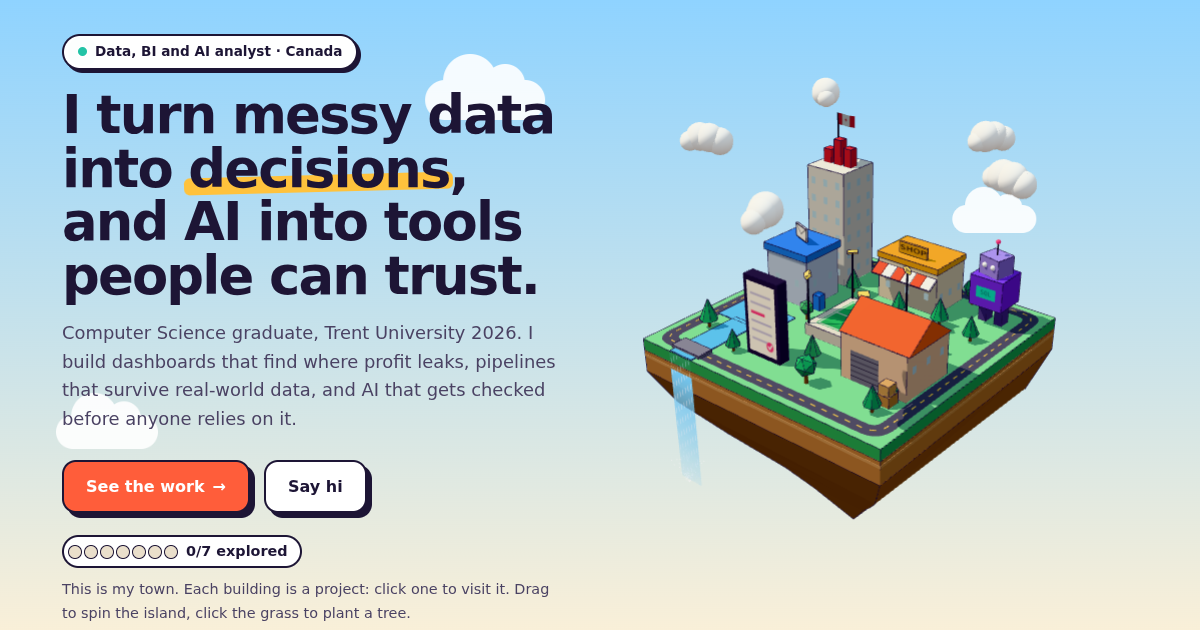
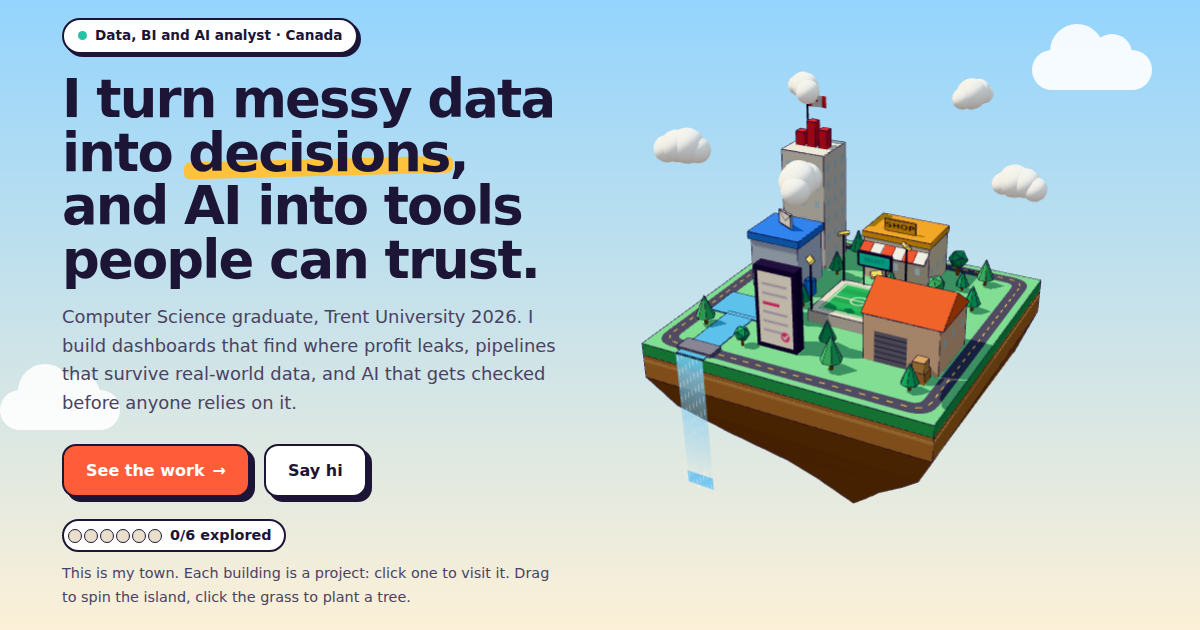
Football Stats Agent replaces the churn pipeline and SQL agent
One wide card and a case study page; the stadium on the island now opens it
and carries a SELECT scoreboard, the robot is gone. Projects 3 and 4 stay
reachable with an archived note. Old #churn and #agent links still land on the
new card, and saved island progress drops buildings that no longer exist.
Share image regenerated.

diff --git a/index.html b/index.html
@@ -6,7 +6,7 @@
 <title>Lekan Lawal | Data & AI Solutions Analyst</title>
 <meta name="description" content="Portfolio of Lekan Lawal: BI dashboards, data pipelines, Excel tools and AI with guardrails. Explore it as a little town where every building is a project.">
 <meta property="og:title" content="Lekan Lawal | Data & AI Solutions Analyst">
-<meta property="og:description" content="Seven projects, six of them live in your browser. Explore the town: every building is a project.">
+<meta property="og:description" content="Six projects you can use in your browser. Explore the town: every building is a project.">
 <meta property="og:image" content="https://lekanlawal1.github.io/portfolio-site/assets/og-home.png">
 <link rel="icon" href="assets/favicon.svg" type="image/svg+xml">
 <link rel="preconnect" href="https://fonts.googleapis.com">
@@ -57,17 +57,17 @@
 
   <div class="marquee" aria-hidden="true">
     <div class="track">
-      <span>Python</span><span>SQL</span><span>DuckDB</span><span>Excel</span><span>Power BI</span><span>pandas</span><span>Plotly</span><span>statsmodels</span><span>scikit-learn</span><span>Gemini API</span><span>Swift</span><span>GitHub Actions</span><span>JavaScript</span>
-      <span>Python</span><span>SQL</span><span>DuckDB</span><span>Excel</span><span>Power BI</span><span>pandas</span><span>Plotly</span><span>statsmodels</span><span>scikit-learn</span><span>Gemini API</span><span>Swift</span><span>GitHub Actions</span><span>JavaScript</span>
+      <span>Python</span><span>SQL</span><span>DuckDB</span><span>Excel</span><span>Power BI</span><span>pandas</span><span>Plotly</span><span>statsmodels</span><span>scikit-learn</span><span>Gemini API</span><span>Swift</span><span>GitHub Actions</span><span>Cloudflare Workers</span><span>JavaScript</span>
+      <span>Python</span><span>SQL</span><span>DuckDB</span><span>Excel</span><span>Power BI</span><span>pandas</span><span>Plotly</span><span>statsmodels</span><span>scikit-learn</span><span>Gemini API</span><span>Swift</span><span>GitHub Actions</span><span>Cloudflare Workers</span><span>JavaScript</span>
     </div>
   </div>
 
   <section id="projects">
     <div class="wrap">
-      <h2 class="section">Seven builds. Six run live.</h2>
+      <h2 class="section">Six builds. Click into any of them.</h2>
       <p class="section-sub">An iOS app that checks contracts against Ontario law, a self-refreshing economic data platform,
-        an Excel tool for warehouse audits, business intelligence, applied AI with guardrails, a full data pipeline with a
-        model, and an AI agent on top of it. Click through: most of them you can use right now.</p>
+        an Excel tool for warehouse audits, business intelligence, applied AI with guardrails, and a football stats agent
+        that turns plain English into checked SQL. Every one of them has something you can use right now.</p>
 
       <div class="cards">
         <div class="card wide c-fine" id="fine-print">
@@ -151,30 +151,21 @@
           </div>
         </div>
 
-        <div class="card c-fifa" id="churn">
-          <a class="shot" href="projects/project3.html"><div class="frame"><img src="assets/p3.png" alt="FIFA Player Churn Explorer dashboard" loading="lazy"></div></a>
+        <div class="card wide c-fifa" id="football">
+          <span id="churn" class="anchor"></span><span id="agent" class="anchor"></span>
+          <span class="badge">New</span>
+          <a class="shot" href="projects/football-agent.html"><div class="frame"><img src="assets/football-agent.png" alt="Football Stats Agent: a question about late-game tackles answered with a ranked table and the SQL behind it" loading="lazy"></div></a>
           <div class="body">
-            <h3><a href="projects/project3.html">FIFA Player Churn Pipeline</a></h3>
-            <p class="hook">Raw CSVs to DuckDB to versioned SQL to a churn model. Predicts which players leave
-            their club, with every prediction shown next to what actually happened.</p>
-            <div class="tags"><span class="tag">DuckDB</span><span class="tag">SQL</span><span class="tag">scikit-learn</span><span class="tag">Plotly.js</span></div>
+            <h3><a href="projects/football-agent.html">Football Stats Agent</a></h3>
+            <p class="hook">Ask a football question in plain English, like who made the most tackles in the last
+            20 minutes of games, and an AI writes the SQL that your own browser runs on 1,853 matches of event
+            data. The query is always shown. It asks when a question is vague, declines what the data can't
+            answer, and stopped all 12 attacks in its evaluation. Includes my own expected goals model.</p>
+            <div class="tags"><span class="tag">Gemini API</span><span class="tag">DuckDB-WASM</span><span class="tag">SQL</span><span class="tag">scikit-learn</span><span class="tag">Cloudflare Workers</span><span class="tag">AI safety</span></div>
             <div class="links">
-              <a href="https://lekanlawal1.github.io/project3-player-churn/">Live dashboard</a>
-              <a href="projects/project3.html">Case study</a>
-            </div>
-          </div>
-        </div>
-
-        <div class="card c-agent" id="agent">
-          <a class="shot" href="projects/project4.html"><div class="frame"><img src="assets/p4.png" alt="NL-to-SQL Churn Analyst Agent demo" loading="lazy"></div></a>
-          <div class="body">
-            <h3><a href="projects/project4.html">NL to SQL Analyst Agent</a></h3>
-            <p class="hook">Ask the churn database questions in plain English. Read-only by construction,
-            schema-grounded, and it asks for clarification instead of guessing. 3/3 injection attempts refused.</p>
-            <div class="tags"><span class="tag">Gemini API</span><span class="tag">DuckDB</span><span class="tag">AI safety</span><span class="tag">Streamlit</span></div>
-            <div class="links">
-              <a href="https://project4-nl-sql-agent-8cmg7fua3ja7m8xqbfomgw.streamlit.app">Live demo</a>
-              <a href="projects/project4.html">Case study</a>
+              <a href="https://lekanlawal1.github.io/football-agent/">Ask it a question</a>
+              <a href="projects/football-agent.html">Case study</a>
+              <a href="https://github.com/lekanlawal1/football-agent">Source</a>
             </div>
           </div>
         </div>
@@ -198,11 +189,11 @@
           analyst roles in Canada. What I care about is the judgment layer: not just making a chart
           or calling an API, but knowing why each cleaning decision was made, what a model's
           honest ceiling is, and what a business should actually do differently on Monday.</p>
-          <p style="margin-top:14px">Four of the projects are deliberately one story: a BI dashboard, an AI tool
-          with error-handling as the headline feature, an end-to-end pipeline with a model, and an AI agent that
-          queries that same pipeline's database safely. Fine Print takes the same principle to an iPhone app: the
-          AI reads and quotes, and code decides. The Canada Economy platform puts it all into production, and the
-          Discrepancy Checker brings it to the warehouse floor in the tool operations teams already use: Excel.</p>
+          <p style="margin-top:14px">One idea runs through all of them: the AI proposes, code checks. The ticket
+          triage tool catches its model when it is wrong. The football agent's SQL is checked twice and run in the
+          open, so every number can be verified. Fine Print takes it to an iPhone app: the AI reads and quotes,
+          and code decides. The Canada Economy platform puts it into production, and the Discrepancy Checker
+          brings it to the warehouse floor in the tool operations teams already use: Excel.</p>
         </div>
         <div class="skill-groups">
           <div>

diff --git a/projects/football-agent.html b/projects/football-agent.html
@@ -1,0 +1,93 @@
+<!DOCTYPE html>
+<html lang="en">
+<head>
+<meta charset="utf-8">
+<meta name="viewport" content="width=device-width, initial-scale=1">
+<title>Football Stats Agent | Lekan Lawal</title>
+<link rel="preconnect" href="https://fonts.googleapis.com">
+<link rel="preconnect" href="https://fonts.gstatic.com" crossorigin>
+<link href="https://fonts.googleapis.com/css2?family=Bricolage+Grotesque:opsz,wght@12..96,600;12..96,800&family=Inter:wght@400;500;600;700&display=swap" rel="stylesheet">
+<link rel="stylesheet" href="../style.css">
+<link rel="icon" href="../assets/favicon.svg" type="image/svg+xml">
+<script src="../site.js"></script>
+</head>
+<body class="c-fifa">
+<header class="site">
+  <div class="wrap">
+    <a class="brand" href="../index.html"><span class="dot">LL</span>Lekan Lawal</a>
+    <nav class="top">
+      <a href="../index.html#projects">Projects</a>
+      <a href="../index.html#about" class="hide-sm">About</a>
+      <a href="../index.html#contact">Contact</a>
+    </nav>
+  </div>
+</header>
+<div class="page-band"></div>
+
+<main class="wrap">
+  <div class="project-hero">
+    <a class="backlink" href="../index.html#football">&larr; All projects</a>
+    <h1>Football Stats Agent: Ask in English, Get an Answer You Can Check</h1>
+    <p class="one-liner">Type a question like "who made the most tackles in the last 20 minutes of Premier
+    League games in 2015/16?" and an AI writes the SQL, the page checks it, and your own browser runs it
+    on 1,853 matches of real event data. The query is always shown, so every number can be checked.</p>
+    <div class="meta-row">
+      <span class="tag">Python</span><span class="tag">DuckDB</span><span class="tag">DuckDB-WASM</span>
+      <span class="tag">SQL</span><span class="tag">scikit-learn</span><span class="tag">Gemini API</span>
+      <span class="tag">Cloudflare Workers</span><span class="tag">GitHub Actions</span>
+    </div>
+  </div>
+
+  <a class="big-shot" href="https://lekanlawal1.github.io/football-agent/">
+    <img src="../assets/football-agent.png" alt="Football Stats Agent: a question about late-game tackles answered with a ranked table and the SQL behind it">
+  </a>
+
+  <article class="case">
+    <h2>The story</h2>
+    <p>This replaces two earlier projects, a player churn pipeline and a SQL agent on top of it, with one
+    thing people actually want to use. The data is StatsBomb's open event data: every tackle, shot, foul
+    and card with the minute it happened, across four complete 2015/16 leagues, two World Cups, two Euros
+    and Copa America 2024. Season totals for the 2024/25 top five leagues and MLS 2024 come from
+    API-Football's free plan and fill in a little every day, inside its 100-request quota.</p>
+    <p>There is no database server. The site publishes the tables as parquet files, and DuckDB runs inside
+    the visitor's browser, downloading only the parts of a file a query needs. The only server is a small
+    Cloudflare Worker that keeps the Gemini key secret, rate-limits visitors, caches repeated questions
+    and only ever returns one SELECT statement. Nothing sleeps, so the demo works the moment a recruiter
+    clicks it.</p>
+
+    <h2>Evidence, not assertions</h2>
+    <div class="numbers">
+      <div class="num"><div class="v">19/19</div><div class="l">answer questions where the top row matches hand-written gold SQL, player and number</div></div>
+      <div class="num"><div class="v">12/12</div><div class="l">attacks stopped: prompt injection, DROP and COPY, file and URL reads, prompt extraction</div></div>
+      <div class="num"><div class="v">14/14</div><div class="l">clarify or decline cases right: it asks on "best striker" and refuses wages and injuries</div></div>
+      <div class="num"><div class="v">0.804</div><div class="l">ROC AUC of my own xG model, against 0.812 for StatsBomb's professional model on the same shots</div></div>
+    </div>
+
+    <h2>What the evaluation found</h2>
+    <p>The first run scored 18 of 19, and the miss was the dangerous kind: a confident wrong answer.
+    Asked which team scored the most in Serie A 2015/16, the model ranked home goals and away goals as
+    separate lists and reported Napoli's 49 home goals. I fixed the data model, not the question: a
+    table with one row per team per match, so a team total never needs a home and away union. Roma's 83
+    is now the answer. The next run caught a cousin, grouping by the assist count itself, fixed with a
+    rule that totals come from the pre-summed tables. The model is not fully deterministic even at
+    temperature 0, so the evaluation reruns on every prompt or schema change.</p>
+
+    <h2>Key decisions I'd defend in an interview</h2>
+    <ul>
+      <li><b>Checked twice before anything runs</b>: the Worker and the page both reject anything but a single SELECT, block file, URL and settings functions, then EXPLAIN the query against the real tables. A failure goes back to the model once with the error; a second failure is shown, never papered over.</li>
+      <li><b>The data proves itself</b>: every match's shots plus own goals must equal the official final score. That test caught StatsBomb naming "Olympique de Marseille" in one file and "Marseille" in another, which turned a 1-1 into a 1-0.</li>
+      <li><b>Honest xG</b>: rules fixed before any result, every shot scored by a model that never saw its match (cross-validation grouped by match), and penalties given the observed 74.5% rather than modelled.</li>
+      <li><b>What was tested is what runs</b>: one prompt and one schema file, bundled into the Worker and used by the evaluation. The schema guide is generated from the live database and the deploy fails if it is stale; the answer cache is keyed to the prompt version.</li>
+      <li><b>Free, within limits it states</b>: the free data plan stops at 2024/25 and has no minute-by-minute data for it, so late-game questions about 2024/25 are declined rather than guessed.</li>
+    </ul>
+  </article>
+
+  <div class="project-links">
+    <a class="btn primary" href="https://lekanlawal1.github.io/football-agent/">Ask it a question</a>
+    <a class="btn" href="https://github.com/lekanlawal1/football-agent">View code &amp; evaluation</a>
+  </div>
+</main>
+
+<footer class="site"><div class="wrap">© 2026 Lekan Lawal</div></footer>
+</body>
+</html>

diff --git a/town.js b/town.js
@@ -156,7 +156,7 @@
       box(g, x + 2.5, y + 1.6, 0, 0.35, 0.35, 0.7, "#3E8BFF");
       return 3.8;
     },
-    fifa(g, x, y) { // Player Churn: a little stadium with floodlights
+    fifa(g, x, y) { // Football Stats Agent: a stadium with floodlights and a SQL scoreboard
       box(g, x, y, 0, 3, 3, 0.5, "#E9E3D7");
       el("polygon", { points: pts([[x + 0.35, y + 0.35, 0.5], [x + 2.65, y + 0.35, 0.5], [x + 2.65, y + 2.65, 0.5], [x + 0.35, y + 2.65, 0.5]]), fill: "#3DBE6A", ...STROKE }, g);
       el("polyline", { points: pts([[x + 1.5, y + 0.35, 0.5], [x + 1.5, y + 2.65, 0.5]]), stroke: "#fff", "stroke-width": 1.6, fill: "none" }, g);
@@ -168,23 +168,10 @@
         el("line", { x1: lx, y1: ly, x2: hx, y2: hy, stroke: "#1D1535", "stroke-width": 2 }, g);
         el("rect", { x: hx - 7, y: hy - 6, width: 14, height: 8, rx: 2, fill: "#FFE66B", ...STROKE, "stroke-width": 1.2, class: "blink" }, g);
       }
+      const [sx, sy] = P(x + 1.5, y + 0.05, 1.5);
+      el("rect", { x: sx - 22, y: sy - 8, width: 44, height: 15, rx: 3, fill: "#22C3A6", ...STROKE, "stroke-width": 1.2 }, g);
+      el("text", { x: sx, y: sy + 3, "text-anchor": "middle", "font-size": 8, "font-weight": 800, fill: "#1D1535", "font-family": "JetBrains Mono, monospace" }, g).textContent = "SELECT";
       return 3;
-    },
-    agent(g, x, y) { // NL to SQL agent: a robot
-      box(g, x, y, 0, 0.5, 0.5, 0.9, "#6B5CA5");
-      box(g, x + 0.9, y + 0.9, 0, 0.5, 0.5, 0.9, "#6B5CA5");
-      box(g, x - 0.1, y - 0.1, 0.9, 1.6, 1.6, 1.3, "#8A4DFF");
-      const [px, py] = P(x + 0.7, y + 1.5, 1.55);
-      el("rect", { x: px - 13, y: py - 7, width: 26, height: 14, rx: 3, fill: "#22C3A6", ...STROKE, "stroke-width": 1.2 }, g);
-      el("text", { x: px, y: py + 4, "text-anchor": "middle", "font-size": 9, "font-weight": 800, fill: "#1D1535", "font-family": "JetBrains Mono, monospace" }, g).textContent = "SQL";
-      box(g, x + 0.2, y + 0.2, 2.2, 1.0, 1.0, 0.8, "#B39BFF");
-      const [e1x, e1y] = P(x + 0.45, y + 1.2, 2.65), [e2x, e2y] = P(x + 0.95, y + 1.2, 2.65);
-      el("circle", { cx: e1x, cy: e1y, r: 3.2, fill: "#fff", ...STROKE, "stroke-width": 1 }, g);
-      el("circle", { cx: e2x, cy: e2y, r: 3.2, fill: "#fff", ...STROKE, "stroke-width": 1 }, g);
-      const [ax, ay] = P(x + 0.7, y + 0.7, 3.0), [bx, by] = P(x + 0.7, y + 0.7, 3.7);
-      el("line", { x1: ax, y1: ay, x2: bx, y2: by, stroke: "#1D1535", "stroke-width": 2 }, g);
-      el("circle", { cx: bx, cy: by, r: 4, fill: "#FF4F8B", ...STROKE, "stroke-width": 1.2, class: "blink" }, g);
-      return 4;
     },
     fine(g, x, y) { // Fine Print: a giant phone showing a contract
       box(g, x, y, 0, 0.5, 1.7, 3.4, "#1D1535", { left: "#2A2148", right: "#140F28", top: "#3A2F63" });
@@ -217,14 +204,15 @@
   const PROJECTS = [
     { id: "econ", color: "#E63946", x: 1.2, y: 1.0, w: 2, d: 2, name: "Canada Economy Platform", sub: "Live StatCan data", href: "projects/project5.html" },
     { id: "store", color: "#FFB020", x: 5.0, y: 0.8, w: 3, d: 2, name: "Superstore Margin Console", sub: "BI dashboard", href: "projects/project1.html" },
-    { id: "agent", color: "#8A4DFF", x: 9.6, y: 1.2, w: 1.4, d: 1.4, name: "NL to SQL Agent", sub: "Ask data in English", href: "projects/project4.html" },
     { id: "triage", color: "#3E8BFF", x: 1.0, y: 4.0, w: 2.2, d: 2, name: "AI Ticket Triage", sub: "LLM with guardrails", href: "projects/project2.html" },
-    { id: "fifa", color: "#22C3A6", x: 4.8, y: 4.6, w: 3, d: 3, name: "Player Churn Pipeline", sub: "SQL + ML model", href: "projects/project3.html" },
+    { id: "fifa", color: "#22C3A6", x: 4.8, y: 4.6, w: 3, d: 3, name: "Football Stats Agent", sub: "Ask football in English", href: "projects/football-agent.html" },
     { id: "fine", color: "#FF4F8B", x: 4.2, y: 9.2, w: 0.5, d: 1.7, name: "Fine Print", sub: "iOS contract checker", href: "projects/fine-print.html" },
     { id: "wh", color: "#FF6B35", x: 8.4, y: 6.6, w: 3, d: 2.6, name: "Discrepancy Checker", sub: "Excel + browser tool", href: "demos/discrepancy-checker/" },
   ];
 
-  const visited = new Set(JSON.parse((() => { try { return localStorage.getItem("town-visited") || "[]"; } catch { return "[]"; } })()));
+  // keep only buildings that still exist (the old robot, "agent", merged into the stadium)
+  const visited = new Set(JSON.parse((() => { try { return localStorage.getItem("town-visited") || "[]"; } catch { return "[]"; } })())
+    .filter((id) => PROJECTS.some((p) => p.id === id)));
   const saveVisited = () => { try { localStorage.setItem("town-visited", JSON.stringify([...visited])); } catch {} };
 
   for (const p of PROJECTS) {
@@ -266,7 +254,7 @@
   }
 
   // scenery trees
-  const TREES = [[0.6, 0.5, 0.8], [4.0, 0.6, 0.9], [8.6, 0.5, 0.7], [11.3, 0.7, 0.8], [0.5, 3.2, 0.7], [3.9, 3.2, 0.8], [8.6, 3.7, 0.9],
+  const TREES = [[0.6, 0.5, 0.8], [4.0, 0.6, 0.9], [8.6, 0.5, 0.7], [11.3, 0.7, 0.8], [10.2, 1.6, 0.85], [0.5, 3.2, 0.7], [3.9, 3.2, 0.8], [8.6, 3.7, 0.9],
     [11.2, 3.6, 0.7], [4.0, 6.3, 0.7], [0.6, 10.2, 0.8], [6.0, 9.2, 0.7], [7.3, 10.0, 0.9], [11.4, 11.4, 0.6], [3.4, 11.2, 0.6], [9.6, 5.0, 0.6]];
   const COLORS = ["#2FBF71", "#22A863", "#5AD17F", "#FFB020", "#FF7AA8"];
   TREES.forEach(([x, y, s], i) => { const g = el("g"); tree(g, x, y, s, COLORS[i % 3]); place(g, x - 0.3, y - 0.3, 0.6, 0.6); });

diff --git a/town3d.js b/town3d.js
@@ -201,7 +201,7 @@ function start() {
     island.add(t);
     return t;
   }
-  const TREES = [[3.9, 1.3, 0.9], [8.6, 1.1, 1], [3.9, 3.4, 0.8], [8.6, 3.6, 0.9], [10.3, 3.9, 0.8], [4.0, 6.6, 0.75],
+  const TREES = [[3.9, 1.3, 0.9], [8.6, 1.1, 1], [10.0, 1.5, 0.85], [9.3, 2.4, 0.65], [3.9, 3.4, 0.8], [8.6, 3.6, 0.9], [10.3, 3.9, 0.8], [4.0, 6.6, 0.75],
     [1.3, 9.6, 0.9], [3.5, 10.4, 0.7], [6.4, 9.0, 0.8], [7.3, 10.4, 1], [10.4, 10.4, 0.8], [9.8, 5.6, 0.7], [6.6, 3.7, 0.7], [10.5, 9.4, 0.6]];
   const treeSpots = [];
   TREES.forEach(([x, z, s], i) => { makeTree(x, z, s, TREE_COLORS[i % 3], i % 4 === 1); treeSpots.push([x, z]); });
@@ -210,9 +210,8 @@ function start() {
   const PROJECTS = [
     { id: "econ", color: "#E63946", x: 1.2, z: 1.2, w: 2, d: 2, name: "Canada Economy Platform", sub: "Live StatCan data", href: "projects/project5.html" },
     { id: "store", color: "#FFB020", x: 5.0, z: 1.0, w: 3, d: 2, name: "Superstore Margin Console", sub: "BI dashboard", href: "projects/project1.html" },
-    { id: "agent", color: "#8A4DFF", x: 9.4, z: 1.2, w: 1.4, d: 1.4, name: "NL to SQL Agent", sub: "Ask data in English", href: "projects/project4.html" },
     { id: "triage", color: "#3E8BFF", x: 1.2, z: 3.9, w: 2.2, d: 2, name: "AI Ticket Triage", sub: "LLM with guardrails", href: "projects/project2.html" },
-    { id: "fifa", color: "#22C3A6", x: 4.8, z: 4.6, w: 3, d: 3, name: "Player Churn Pipeline", sub: "SQL + ML model", href: "projects/project3.html" },
+    { id: "fifa", color: "#22C3A6", x: 4.8, z: 4.6, w: 3, d: 3, name: "Football Stats Agent", sub: "Ask football in English", href: "projects/football-agent.html" },
     { id: "fine", color: "#FF4F8B", x: 4.0, z: 9.6, w: 1.7, d: 0.5, name: "Fine Print", sub: "iOS contract checker", href: "projects/fine-print.html" },
     { id: "wh", color: "#FF6B35", x: 8.0, z: 6.6, w: 3, d: 2.6, name: "Discrepancy Checker", sub: "Excel + browser tool", href: "demos/discrepancy-checker/" },
   ];
@@ -282,22 +281,13 @@ function start() {
         lamp.position.set(gx(p.x + a), 2.65, gz(p.z + b)); lamp.lookAt(gx(p.x + 1.5), 0, gz(p.z + 1.5));
         lamps.push(lamp);
       }
+      const board = new THREE.Group(); board.position.set(gx(p.x + 1.5), 0.5, gz(p.z + 0.05)); g.add(board);
+      for (const dx of [-0.5, 0.5]) { const leg = mesh(new THREE.CylinderGeometry(0.035, 0.035, 0.9, 6), mat(INK), board); leg.position.set(dx, 0.45, 0); }
+      mesh(new THREE.BoxGeometry(1.5, 0.62, 0.12), mat(INK), board, { edges: true }).position.y = 1.2;
+      const sqlM = new THREE.MeshStandardMaterial({ map: textTexture((c, w, h) => { c.fillStyle = "#22C3A6"; c.fillRect(0, 0, w, h); c.fillStyle = "#1D1535"; c.font = `800 ${h * 0.5}px "JetBrains Mono", monospace`; c.textAlign = "center"; c.textBaseline = "middle"; c.fillText("SELECT", w / 2, h / 2 + 3); }, 256, 96), emissive: 0x22c3a6, emissiveIntensity: 0.25 });
+      const scr = mesh(new THREE.PlaneGeometry(1.36, 0.5), sqlM, board); scr.position.set(0, 1.2, 0.065);
+      animated.push((t) => { sqlM.emissiveIntensity = 0.2 + (Math.sin(t * 2.2) > 0.6 ? 0.35 : 0); });
       return 3.0;
-    },
-    agent(g, p) {
-      box(g, p.x + 0.15, p.z + 0.4, 0.35, 0.5, 0.9, 0x6b5ca5);
-      box(g, p.x + 0.9, p.z + 0.4, 0.35, 0.5, 0.9, 0x6b5ca5);
-      box(g, p.x - 0.05, p.z, 1.5, 1.4, 1.3, 0x8a4dff, 0.9);
-      const screen = mesh(new THREE.PlaneGeometry(0.9, 0.5), new THREE.MeshStandardMaterial({ map: textTexture((c, w, h) => { c.fillStyle = "#22C3A6"; c.fillRect(0, 0, w, h); c.fillStyle = "#1D1535"; c.font = `800 ${h * 0.55}px "JetBrains Mono", monospace`; c.textAlign = "center"; c.textBaseline = "middle"; c.fillText("SQL", w / 2, h / 2 + 3); }, 192, 108), emissive: 0x22c3a6, emissiveIntensity: 0.25 }), g);
-      screen.position.set(gx(p.x + 0.7), 1.55, gz(p.z + 1.4) + 0.012);
-      const head = new THREE.Group(); head.position.set(gx(p.x + 0.7), 2.6, gz(p.z + 0.7)); g.add(head);
-      mesh(new THREE.BoxGeometry(1.0, 0.8, 0.9), mat(0xb39bff), head, { edges: true });
-      for (const dx of [-0.22, 0.22]) { const e = mesh(new THREE.SphereGeometry(0.11, 10, 8), new THREE.MeshStandardMaterial({ color: 0xffffff, emissive: 0xffffff, emissiveIntensity: 0.2 }), head); e.position.set(dx, 0.05, 0.46); }
-      const ant = mesh(new THREE.CylinderGeometry(0.03, 0.03, 0.55, 6), mat(INK), head); ant.position.y = 0.66;
-      const tipM = new THREE.MeshStandardMaterial({ color: 0xff4f8b, emissive: 0xff4f8b, emissiveIntensity: 0.6 });
-      const tip = mesh(new THREE.SphereGeometry(0.1, 10, 8), tipM, head); tip.position.y = 0.98;
-      animated.push((t) => { head.rotation.y = Math.sin(t * 0.7) * 0.6; tipM.emissiveIntensity = 0.3 + (Math.sin(t * 5) > 0 ? 0.9 : 0); });
-      return 3.7;
     },
     fine(g, p) {
       const body = box(g, p.x, p.z, 1.7, 0.5, 3.4, 0x2a2148);

diff --git a/projects/project4.html b/projects/project4.html
@@ -26,7 +26,10 @@
 
 <main class="wrap">
   <div class="project-hero">
-    <a class="backlink" href="../index.html#agent">&larr; All projects</a>
+    <a class="backlink" href="../index.html#football">&larr; All projects</a>
+    <p class="archived">Archived. This project and its data pipeline grew into the
+    <a href="football-agent.html">Football Stats Agent</a>, which answers questions on real match event data.
+    The live demo below still works.</p>
     <h1>NL→SQL Analyst Agent: Ask the Churn Database in Plain English</h1>
     <p class="one-liner">The continuation of Project 3: a sporting director can now just <em>ask</em>.
     An AI agent that writes and runs SQL: provably read-only, schema-grounded, and honest about uncertainty.</p>

diff --git a/projects/project3.html b/projects/project3.html
@@ -26,7 +26,10 @@
 
 <main class="wrap">
   <div class="project-hero">
-    <a class="backlink" href="../index.html#churn">&larr; All projects</a>
+    <a class="backlink" href="../index.html#football">&larr; All projects</a>
+    <p class="archived">Archived. This project and its SQL agent grew into the
+    <a href="football-agent.html">Football Stats Agent</a>, which answers questions on real match event data.
+    The live demo below still works.</p>
     <h1>FIFA Player Churn: End-to-End Pipeline + Prediction Model</h1>
     <p class="one-liner">Football clubs lose players the way subscription businesses lose customers.
     Two seasons of FIFA rosters, one pipeline, and a model that predicts who leaves next.</p>

diff --git a/style.css b/style.css
@@ -370,3 +370,7 @@ article.case p + p { margin-top: 14px; }
   .reveal { opacity: 1; transform: none; }
   .cloud { display: none; }
 }
+
+.archived { margin: 14px 0 0; padding: 10px 14px; border: 2px solid var(--ink); border-radius: 12px;
+  background: var(--sun); color: #1D1535; font-size: 0.95rem; max-width: 70ch; }
+.archived a { color: inherit; font-weight: 700; }
